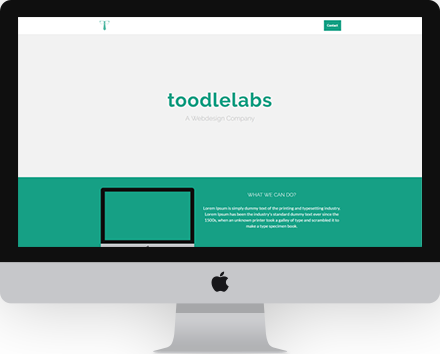
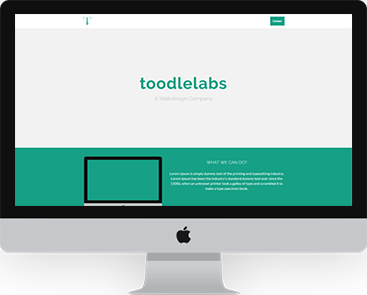
footer adjusted

diff --git a/index.html b/index.html
@@ -55,7 +55,7 @@
 	    <div class="container">
 	    	<div class="row">
 	    		<div class="col-lg-8 col-lg-offset-2 centered">
-	    			<h1>toodlelabs</h1>
+	    			<h1>toodle labs</h1>
 	    			<h2>A Web Design Company</h2>
 	    		</div><!-- /col-lg-8 -->
 	    	</div><!-- /row -->
@@ -116,7 +116,7 @@
 	<div id="skills">
 		<div class="container">
 			<div class="row centered">
-				<h2>OUR SKILLS</h2>
+				<h2>OUR TEAM</h2>
 				<div class="col-md-3 col-sm-6 mt">
 					<canvas id="javascript" height="130" width="130"></canvas>
 					<p>Javascript</p>
@@ -220,12 +220,7 @@
 	<div id="f">
 		<div class="container">
 			<div class="row">
-					<div class="col-md-6">
-						<p>Copyright &copy; 2016 <a href="http://toodlelabs.com">toodlelabs</a>. All rights reserved.</p>
-					</div>
-					<div class="col-md-6">
-						<p class="text-right">Crafted with <i class="fa fa-heart"></i> by <a href="http://toodlelabs.com">toodlelabs</a></p>
-					</div>
+				<p>Copyright &copy; 2016 <a href="http://toodlelabs.com">toodlelabs</a>. All rights reserved.</p>
 			</div>
 		</div>
 	</div>
